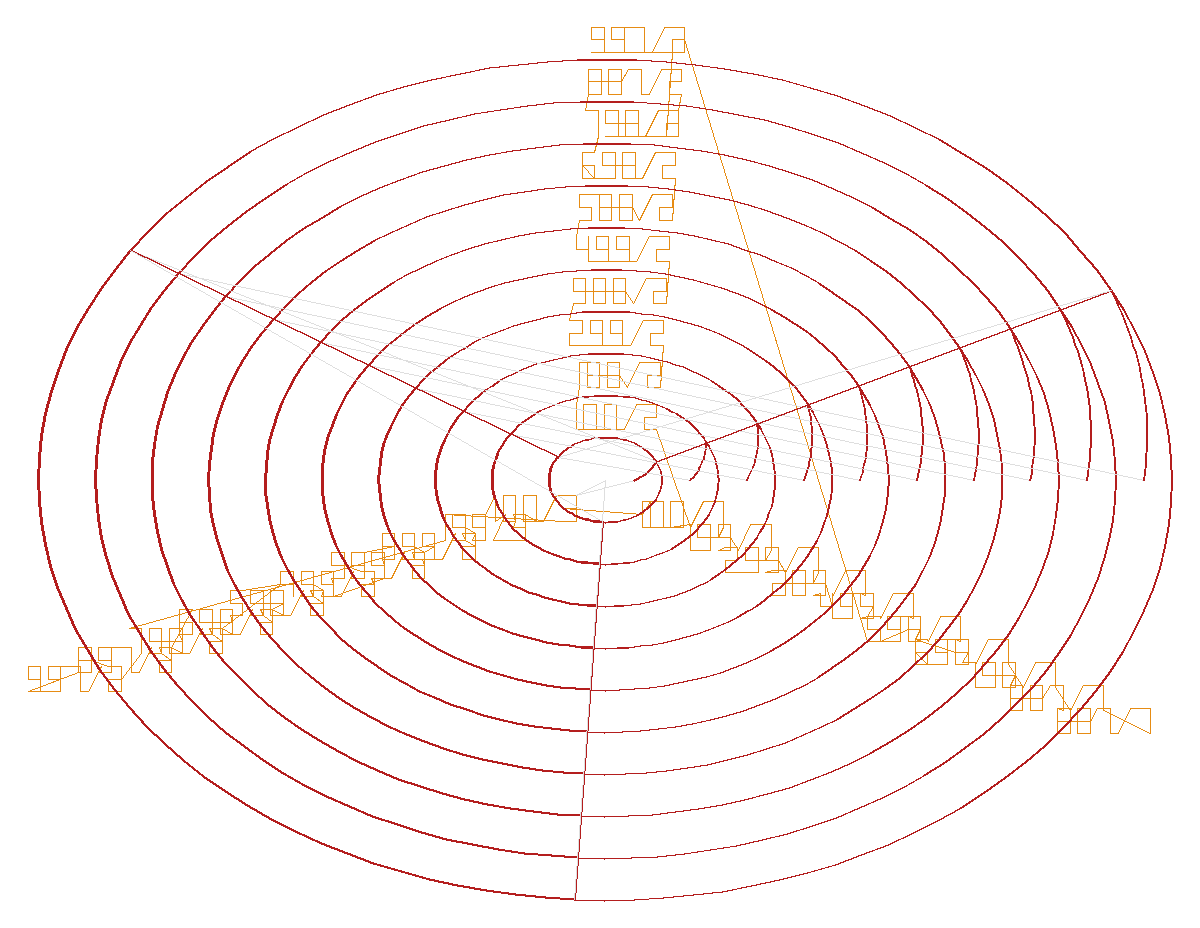
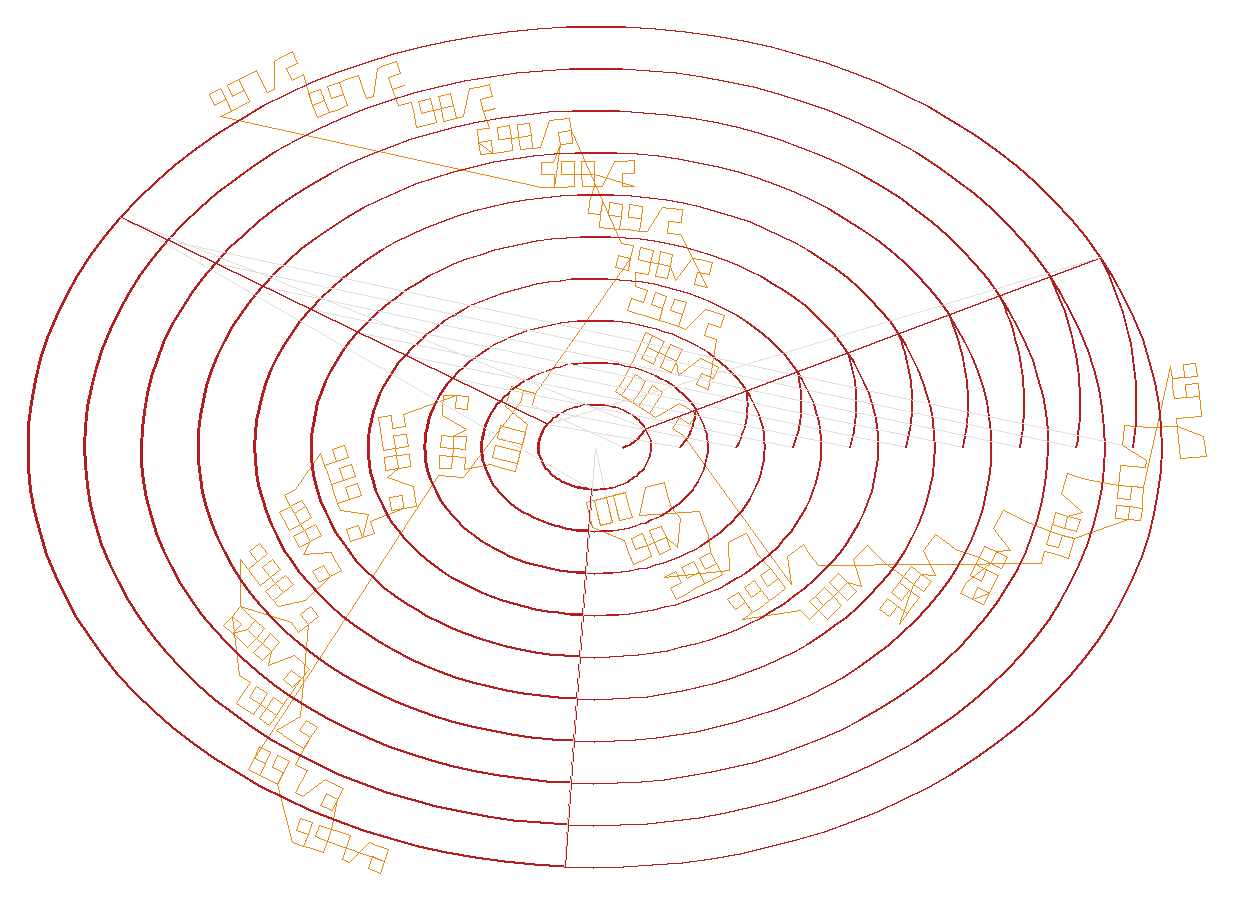
cnc_calibrate: rotate sector labels tangent to rings, fan across the arc; 1s warmup wiggle
- Labels are rotated to the ellipse tangent so they lie in the band between rings
  instead of crossing the ring cuts (kept upright via an up-vector flip), and each
  ring's label is fanned to a different angle across its sector so they no longer
  pile up at one angle and overrun the circles.
- Engraving warmup: standard ~1s warmup wiggle over the start of the continuous
  path, then a single forward pass (dropped the full-reverse retrace).

diff --git a/cnc_calibrate/spiral_cal.py b/cnc_calibrate/spiral_cal.py
@@ -97,25 +97,35 @@ def _slash_strokes(ox, oy, h):
     return [(ox, oy, ox + w, oy + h)]
 
 
-def _label_strokes(text, cx, cy, h, spacing_frac=0.3):
-    """Strokes for `text` (digits + '/'), centered horizontally on cx with vertical
-    center at cy. Returns [(x1,y1,x2,y2), ...]."""
+def _label_strokes(text, cx, cy, h, angle_deg=0.0, spacing_frac=0.3):
+    """Strokes for `text` (digits + '/'), centered at (cx, cy) and rotated by
+    angle_deg (CCW). Returns [(x1,y1,x2,y2), ...]."""
     import font_7seg
 
     w = h / 2
     spacing = spacing_frac * h
     pitch = w + spacing
     total_w = len(text) * w + (len(text) - 1) * spacing
-    x0 = cx - total_w / 2
-    y0 = cy - h / 2
-    out = []
+    x0 = -total_w / 2  # build centered on the origin, then rotate + translate
+    y0 = -h / 2
+    raw = []
     for i, ch in enumerate(text):
         ox = x0 + i * pitch
         if ch == "/":
-            out += _slash_strokes(ox, y0, h)
+            raw += _slash_strokes(ox, y0, h)
         elif ch.isdigit():
-            out += font_7seg.render_digit(ch, ox, y0, h)
+            raw += font_7seg.render_digit(ch, ox, y0, h)
         # any other char: leave its pitch as a gap
+    ca = math.cos(math.radians(angle_deg))
+    sa = math.sin(math.radians(angle_deg))
+
+    def tf(x, y):
+        return (cx + x * ca - y * sa, cy + x * sa + y * ca)
+
+    out = []
+    for x1, y1, x2, y2 in raw:
+        (X1, Y1), (X2, Y2) = tf(x1, y1), tf(x2, y2)
+        out.append((X1, Y1, X2, Y2))
     return out
 
 
@@ -142,11 +152,30 @@ def _order_strokes(strokes, start=(0.0, 0.0)):
     return ordered
 
 
-def _emit_engrave_boustrophedon(lines, strokes, engrave_s, engrave_feed, label=""):
-    """Engrave every stroke as ONE continuous laser-on path, then retrace it in
-    reverse. The beam never blanks (glyph-to-glyph connectors are drawn as faint
-    drag lines), so the diode warms up once; the cold first-second of the forward
-    pass is redrawn LAST in the reverse pass, when the beam is fully warm."""
+def _warmup_points(pts, warmup_mm):
+    """Out-and-back over the START of the path covering ~warmup_mm total, ending
+    back at pts[0] (the standard diode warmup wiggle)."""
+    if warmup_mm <= 0 or len(pts) < 2:
+        return []
+    half = warmup_mm / 2.0
+    fwd = [pts[0]]
+    acc = 0.0
+    for a, b in zip(pts, pts[1:]):
+        d = math.hypot(b[0] - a[0], b[1] - a[1])
+        if acc + d >= half:
+            t = (half - acc) / d if d else 0.0
+            fwd.append((a[0] + (b[0] - a[0]) * t, a[1] + (b[1] - a[1]) * t))
+            break
+        acc += d
+        fwd.append(b)
+    return fwd[1:] + list(reversed(fwd))[1:]  # out to the half point, back to start
+
+
+def _emit_engrave(lines, strokes, engrave_s, engrave_feed, warmup_mm, label=""):
+    """Engrave every stroke as ONE continuous laser-on path (glyph-to-glyph
+    connectors drawn as faint drag lines, so the beam never blanks). Precede it
+    with the standard ~1s warmup wiggle over the start of the path, then a single
+    forward pass."""
     if not strokes:
         return
     ordered = _order_strokes(strokes)
@@ -156,14 +185,13 @@ def _emit_engrave_boustrophedon(lines, strokes, engrave_s, engrave_feed, label="
             pts.append((x1, y1))  # connector drag line into this stroke
         pts.append((x2, y2))
     if label:
-        lines.append(f"; engrave: {label} (continuous fwd+reverse; warms once)")
+        lines.append(f"; engrave: {label} (1s warmup wiggle, then one forward pass)")
     lines.append(f"G0 X{pts[0][0]:.3f} Y{pts[0][1]:.3f}")
     lines.append(f"M3 S{engrave_s}")
     lines.append(f"F{engrave_feed}")
-    for x, y in pts[1:]:
+    for x, y in _warmup_points(pts, warmup_mm):
         lines.append(f"G1 X{x:.3f} Y{y:.3f}")
-    lines.append("; reverse pass: redraw the cold first-second while warm")
-    for x, y in pts[-2::-1]:
+    for x, y in pts[1:]:
         lines.append(f"G1 X{x:.3f} Y{y:.3f}")
     lines.append("M5")
 
@@ -220,20 +248,44 @@ def generate(
 
     classic = N == 1 and abs(aspect - 1.0) < 1e-9
 
-    # ---- ENGRAVE a {feed}/{passes} label on EVERY sector of EVERY ring, as one
-    # continuous fwd+reverse low-power path (warms once; cold start redrawn last).
+    # ---- ENGRAVE a {feed}/{passes} label on EVERY sector of EVERY ring. One
+    # continuous low-power path with a 1s warmup wiggle over its start (no reverse
+    # pass). Labels are rotated tangent to the rings (so they sit in the band
+    # instead of crossing the ring cuts) and fanned across each sector's arc so
+    # they don't pile up at one angle.
     if not classic:
         lab_h = min(2.0, max(1.3, gap * 0.6))
+        engrave_warmup_mm = engrave_feed * (WARMUP_MS / 60000.0)
         strokes = []
         for i in range(n):
             r_b = b[i] + gap * 0.5  # band just OUTSIDE ring i (past its cut)
             r_a = aspect * r_b
             for k in range(N):
-                th = join_ang + (k + 0.5) * sec  # sector mid, clear of the warmup arc
+                # fan the n rings across the sector arc (inner near the sector
+                # start, outer near its end) so labels don't stack at one angle.
+                frac = 0.15 + 0.7 * (i + 0.5) / n
+                th = join_ang + k * sec + frac * sec
                 px, py = ellipse_pt(r_a, r_b, th)
-                strokes += _label_strokes(f"{feeds[i]}/{counts[k]}", px, py, lab_h)
-        _emit_engrave_boustrophedon(
-            lines, strokes, engrave_s, engrave_feed, "feed/passes on every sector"
+                # rotate to the ellipse tangent so the label lies along the band;
+                # keep it upright (flip if the up-vector would point down).
+                tang = math.degrees(
+                    math.atan2(
+                        r_b * math.cos(math.radians(th)),
+                        -r_a * math.sin(math.radians(th)),
+                    )
+                )
+                if math.cos(math.radians(tang)) < 0:
+                    tang += 180
+                strokes += _label_strokes(
+                    f"{feeds[i]}/{counts[k]}", px, py, lab_h, tang
+                )
+        _emit_engrave(
+            lines,
+            strokes,
+            engrave_s,
+            engrave_feed,
+            engrave_warmup_mm,
+            "feed/passes on every sector",
         )
         lines.append("")
 
